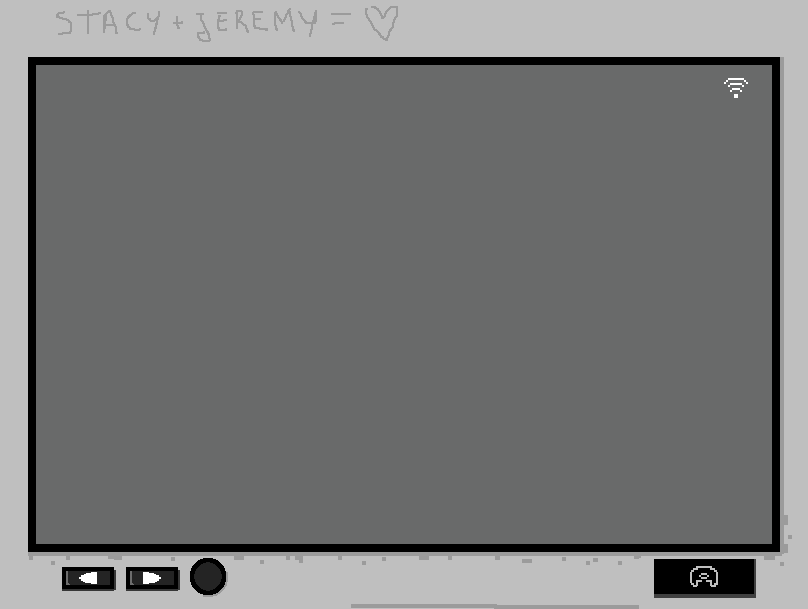
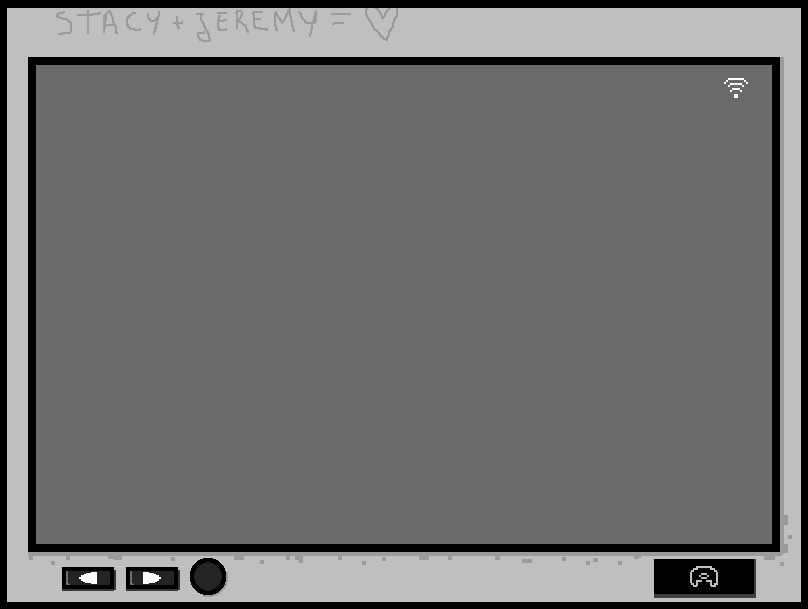
animation reset

Changed region(s): [[0.0, 0.0, 1.0, 1.0]]

diff --git a/app/js/script.js b/app/js/script.js
@@ -62,6 +62,8 @@ function convertNumberLetter(){
 function sentience(){
     var stat = document.getElementById("static")
     var animated = document.getElementById("animated")
+
+    
     
     stat.classList.remove("displayblock");
     stat.classList.add("displaynone");
@@ -72,7 +74,7 @@ function sentience(){
 
 function timerSentience(){
     setTimeout(function(){
-        var stat = document.getElementById("static")
+        var static = document.getElementById("static")
         var animated = document.getElementById("animated")
     
         animated.classList.remove("displayblock");
@@ -80,6 +82,10 @@ function timerSentience(){
     
         static.classList.add("displayblock");
         static.classList.remove("displaynone");
+
+
+        animated.src = `${animated.src.replace(/\?.*$/, "")}?x=${Math.random()}`;
+
     }, 17500)
 }
 

diff --git a/index.html b/index.html
@@ -5,6 +5,10 @@
         <meta http-equiv="X-UA-Compatible" content="IE=edge" />
         <meta name="viewport" content="width=device-width, initial-scale=1.0" />
 
+        <!-- scripts -->
+
+        <script src="https://ajax.googleapis.com/ajax/libs/jquery/3.6.0/jquery.min.js"></script>
+
         <!-- Fonts -->
         <link
             href="app/scss/fonts/Monoska/stylesheet.css"
